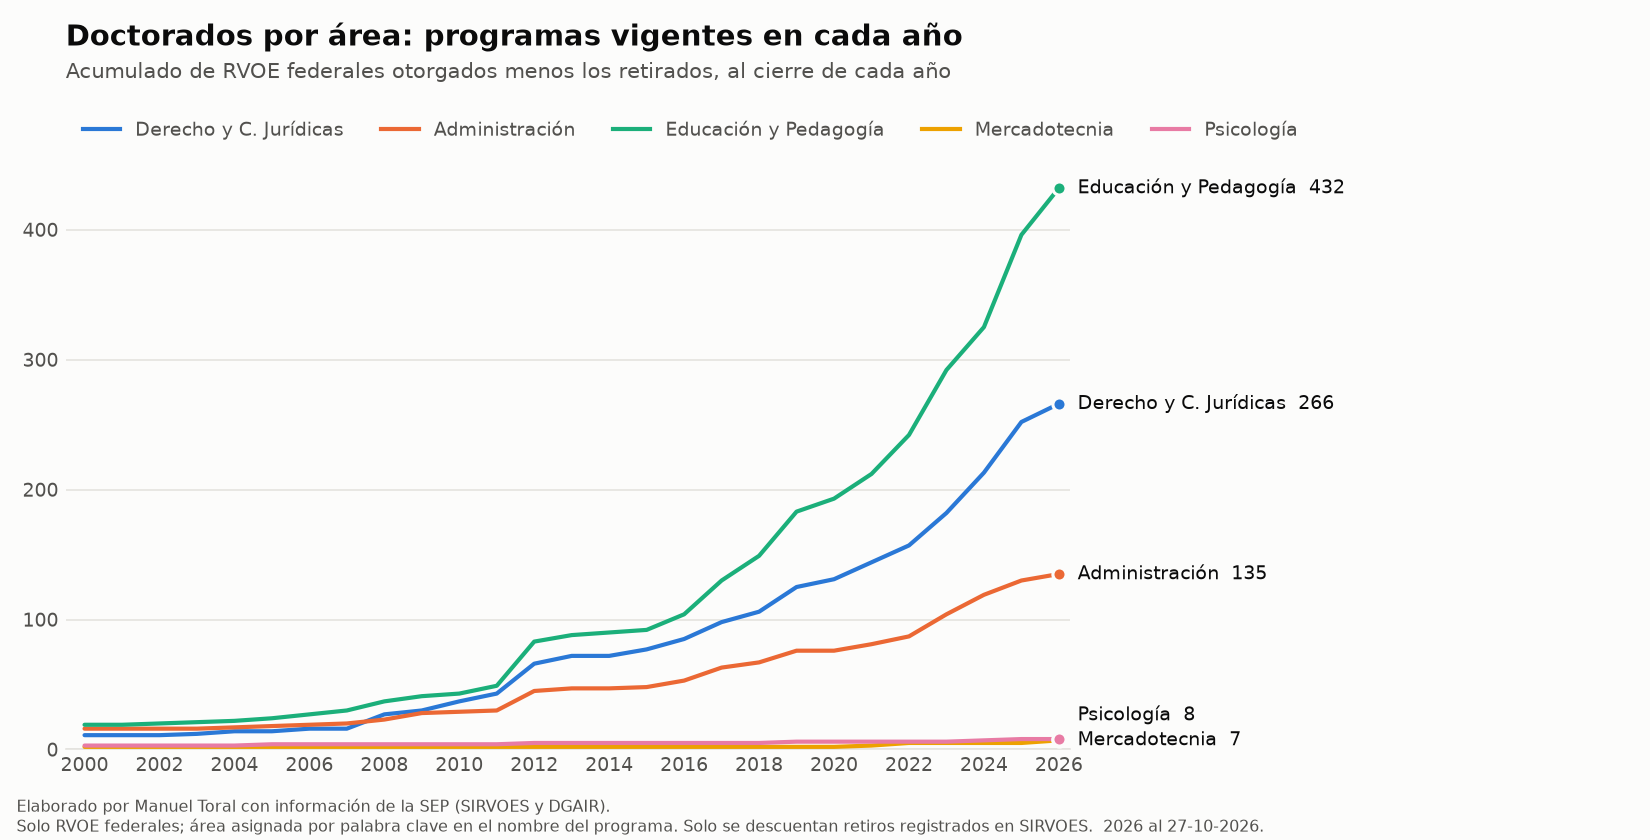
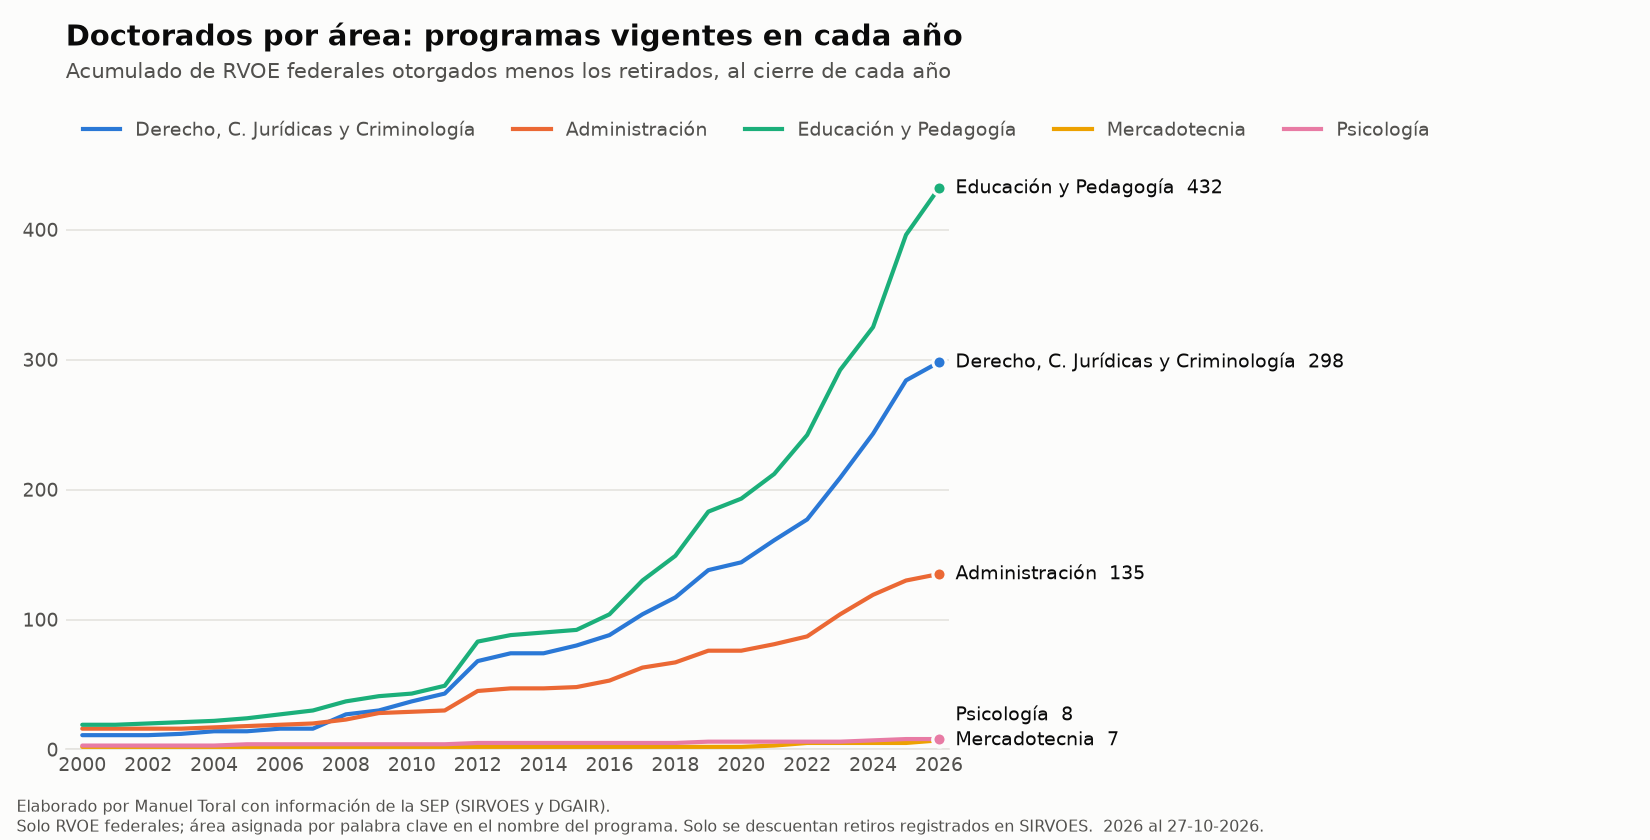
Doctorados jurídicos: suma Criminología y agrega gráfica por subárea
- La regla del área jurídica ahora incluye Criminología, Ciencias Penales,
  Juicios Orales, Ciencias Forenses, Seguridad Pública y Justicia
  (Ciencias Jurídicas ya estaba incluida)
- img/doctorados_derecho_subareas.png: penal, constitucional, procesal/civil,
  fiscal/laboral, general y otras
- clasificar(): clasificador por regex reutilizable

diff --git a/graficas.py b/graficas.py
@@ -26,28 +26,46 @@ def nombre_limpio(programa):
 def licenciatura_derecho(u):
     return u[(u["nivel"] == "LICENCIATURA") & (nombre_limpio(u["programa"]) == "DERECHO")]
 
-def vigentes_por_anio(df, cat):
+def vigentes_por_anio(df, cat, colores=CARRERAS):
     """Programas vigentes al cierre de cada año = otorgados hasta ese año - retirados hasta ese año.
-    `cat`: Serie alineada con df con la categoría (clave de CARRERAS) de cada programa."""
+    `cat`: Serie alineada con df con la categoría (clave de `colores`) de cada programa."""
     ao = pd.to_datetime(df["fecha_otorgamiento"], errors="coerce").dt.year
     ar = pd.to_datetime(df["fecha_retiro"], errors="coerce").dt.year
     return pd.DataFrame({c: [((cat == c) & (ao <= y) & ~(ar <= y)).sum() for y in range(DESDE, HASTA + 1)]
-                         for c in CARRERAS}, index=range(DESDE, HASTA + 1))
+                         for c in colores}, index=range(DESDE, HASTA + 1))
+
+def clasificar(programa, reglas, resto=None):
+    """Categoría por regex sobre el nombre limpio; gana la primera regla que coincide."""
+    p = nombre_limpio(programa).str.replace(r"^(EN )+", "", regex=True)
+    cat = pd.Series(resto, index=p.index, dtype=object)
+    for clave, rx in reversed(reglas):  # al revés para que la primera regla sobrescriba
+        cat[p.str.contains(rx, na=False)] = clave
+    return cat
 
 # Doctorados: los nombres varían ("DERECHO PENAL", "CIENCIAS DE LA EDUCACION"), se agrupan por palabra
-# clave; gana la primera regla ("INNOVACION Y ADMINISTRACION EDUCATIVA" -> educación).
-AREAS_DOC = [("DERECHO", r"DERECHO|JURIDIC"), ("PEDAGOGIA", r"EDUCACI|PEDAGOG|EDUCATIV"),
+# clave ("INNOVACION Y ADMINISTRACION EDUCATIVA" -> educación).
+JURIDICO = r"DERECHO|JURIDIC|CRIMIN|PENAL|JUICIO|FORENS|SEGURIDAD PUBLICA|JUSTICIA"
+AREAS_DOC = [("DERECHO", JURIDICO), ("PEDAGOGIA", r"EDUCACI|PEDAGOG|EDUCATIV"),
              ("ADMINISTRACION DE EMPRESAS", r"ADMINISTRACI"), ("MERCADOTECNIA", r"MERCADOTECNIA|MARKETING"),
              ("PSICOLOGIA", r"PSICOLOG")]
-NOMBRES_DOC = {"DERECHO": "Derecho y C. Jurídicas", "PEDAGOGIA": "Educación y Pedagogía",
+NOMBRES_DOC = {"DERECHO": "Derecho, C. Jurídicas y Criminología", "PEDAGOGIA": "Educación y Pedagogía",
                "ADMINISTRACION DE EMPRESAS": "Administración", "MERCADOTECNIA": "Mercadotecnia", "PSICOLOGIA": "Psicología"}
 
 def area_doctorado(programa):
-    p = nombre_limpio(programa)
-    cat = pd.Series(None, index=p.index, dtype=object)
-    for clave, rx in reversed(AREAS_DOC):  # al revés para que la primera regla sobrescriba
-        cat[p.str.contains(rx, na=False)] = clave
-    return cat
+    return clasificar(programa, AREAS_DOC)
+
+# Subáreas de los doctorados jurídicos. El orden importa: "DERECHO PROCESAL PENAL" -> penal,
+# "DERECHO PROCESAL CONSTITUCIONAL" -> constitucional, "DERECHO CIVIL CON JUICIO ORAL" -> procesal/civil.
+SUBAREAS_DER = [
+    ("Penal y criminología", r"PENAL|CRIMIN|FORENS|SEGURIDAD PUBLICA"),
+    ("Constitucional y derechos humanos", r"CONSTITU|HUMANOS|AMPARO|PUBLICO|ANTICORRUP"),
+    ("Procesal, civil y juicios orales", r"PROCESAL|CIVIL|FAMILIAR|JUICIO|\bORAL|LITIG"),  # \b: "LABORAL" no es oral
+    ("Fiscal, laboral y empresarial", r"FISCAL|TRIBUT|LABORAL|TRABAJO|CORPORAT|EMPRESA|COMERCI|ADUAN|MARITIM"),
+    ("Derecho / Ciencias jurídicas (general)", r"^(DERECHO|CIENCIAS? JURIDICAS?|DERECHO Y CIENCIAS JURIDICAS|INVESTIGACION JURIDICA)$"),
+]
+OTRAS_DER = "Otras especialidades"
+COLORES_SUB = dict(zip([s for s, _ in SUBAREAS_DER] + [OTRAS_DER],
+                       ["#2a78d6", "#eb6834", "#1baf7a", "#eda100", "#e87ba4", "#008300"]))
 
 def separar(valores, minimo):
     """Empuja hacia arriba las etiquetas finales que quedarían encimadas."""
@@ -58,23 +76,23 @@ def separar(valores, minimo):
         prev = pos[k]
     return pos
 
-def graficar_lineas(t, out, ultima_fecha, nombres=NOMBRES,
+def graficar_lineas(t, out, ultima_fecha, nombres=NOMBRES, colores=CARRERAS,
                     titulo="Licenciaturas con más RVOE: programas vigentes en cada año",
-                    nota="nombre exacto del programa (sin variantes)"):
+                    nota="nombre exacto del programa (sin variantes)", ncol=5):
     fig, ax = plt.subplots(figsize=(11, 5.6), dpi=150, facecolor=SURFACE)
     ax.set_facecolor(SURFACE)
-    for c, color in CARRERAS.items():
+    for c, color in colores.items():
         ax.plot(t.index, t[c], color=color, linewidth=2, solid_capstyle="round", solid_joinstyle="round", zorder=3)
         ax.scatter([HASTA], [t[c].iloc[-1]], s=40, color=color, edgecolor=SURFACE, linewidth=1.5, zorder=4)
-    pos = separar({c: t[c].iloc[-1] for c in CARRERAS}, minimo=t.values.max() * 0.045)
+    pos = separar({c: t[c].iloc[-1] for c in colores}, minimo=t.values.max() * 0.045)
     for c, y in pos.items():
         ax.annotate(f"{nombres[c]}  {t[c].iloc[-1]:,}", (HASTA, t[c].iloc[-1]), xytext=(HASTA + 0.5, y),
                     textcoords="data", va="center", fontsize=9, color=INK, annotation_clip=False)
     ax.set_title(titulo, loc="left", fontsize=14, color=INK, pad=28, weight="bold")
     ax.text(0, 1.04, "Acumulado de RVOE federales otorgados menos los retirados, al cierre de cada año",
             transform=ax.transAxes, fontsize=10, color=INK2)
-    ax.legend([plt.Line2D([], [], color=col, linewidth=2) for col in CARRERAS.values()], [nombres[c] for c in CARRERAS],
-              loc="upper left", frameon=False, fontsize=9, labelcolor=INK2, ncol=5, bbox_to_anchor=(0, 1.0))
+    ax.legend([plt.Line2D([], [], color=col, linewidth=2) for col in colores.values()], [nombres[c] for c in colores],
+              loc="upper left", frameon=False, fontsize=9, labelcolor=INK2, ncol=ncol, bbox_to_anchor=(0, 1.0))
     ax.set_xticks(range(DESDE, HASTA + 1, 2))
     ax.tick_params(colors=INK2, labelsize=9, length=0)
     ax.yaxis.set_major_formatter(matplotlib.ticker.StrMethodFormatter("{x:,.0f}"))
@@ -83,7 +101,7 @@ def graficar_lineas(t, out, ultima_fecha, nombres=NOMBRES,
         ax.spines[s].set_visible(False)
     ax.spines["bottom"].set_color(GRID)
     ax.set_xlim(DESDE - 0.5, HASTA + 0.3)
-    ax.set_ylim(0, t.values.max() * 1.15)
+    ax.set_ylim(0, t.values.max() * (1.15 if ncol >= len(colores) else 1.25))  # leyenda de 2 renglones: más aire
     fig.text(0.01, 0.01, f"{CREDITO}.\nSolo RVOE federales; {nota}. "
              f"Solo se descuentan retiros registrados en SIRVOES.  {HASTA} al {ultima_fecha}.", fontsize=7.5, color=INK2)
     fig.tight_layout(rect=(0, 0.05, 0.83, 1))
@@ -143,11 +161,30 @@ if __name__ == "__main__":
 
     doc = u[u["nivel"] == "DOCTORADO"]
     area = area_doctorado(doc["programa"])
-    assert area_doctorado(pd.Series(["INNOVACION Y ADMINISTRACION EDUCATIVA", "DERECHO PENAL (RETIRADO)", "FILOSOFIA"])) \
-        .fillna("-").tolist() == ["PEDAGOGIA", "DERECHO", "-"]
+    assert area_doctorado(pd.Series(["INNOVACION Y ADMINISTRACION EDUCATIVA", "DERECHO PENAL (RETIRADO)", "FILOSOFIA",
+                                     "CRIMINOLOGIA", "CIENCIAS JURIDICAS"])).fillna("-").tolist() \
+        == ["PEDAGOGIA", "DERECHO", "-", "DERECHO", "DERECHO"]
     vd = vigentes_por_anio(doc, area)
     graficar_lineas(vd, Path("img/doctorados_acumulados.png"), ultima, nombres=NOMBRES_DOC,
                     titulo="Doctorados por área: programas vigentes en cada año",
                     nota="área asignada por palabra clave en el nombre del programa")
     print(vd.rename(columns=NOMBRES_DOC).to_markdown())
     print("doctorados vigentes por área hoy:", area[doc["estatus"] == "VIGENTE"].value_counts(dropna=False).to_dict())
+
+    djur = doc[area == "DERECHO"]
+    sub = clasificar(djur["programa"], SUBAREAS_DER, resto=OTRAS_DER)
+    assert clasificar(pd.Series(["DERECHO PROCESAL PENAL", "DERECHO PROCESAL CONSTITUCIONAL", "DERECHO CIVIL CON JUICIO ORAL",
+                                 "DERECHO", "EN CIENCIAS JURIDICAS", "FILOSOFIA DEL DERECHO", "DERECHO LABORAL"]),
+                      SUBAREAS_DER, OTRAS_DER).tolist() \
+        == ["Penal y criminología", "Constitucional y derechos humanos", "Procesal, civil y juicios orales",
+            "Derecho / Ciencias jurídicas (general)", "Derecho / Ciencias jurídicas (general)", OTRAS_DER,
+            "Fiscal, laboral y empresarial"]
+    vs = vigentes_por_anio(djur, sub, COLORES_SUB)
+    assert vs.iloc[-1].sum() == vd["DERECHO"].iloc[-1]  # las subáreas suman el total jurídico
+    graficar_lineas(vs, Path("img/doctorados_derecho_subareas.png"), ultima, nombres={c: c for c in COLORES_SUB},
+                    colores=COLORES_SUB, titulo="Doctorados en Derecho, Ciencias Jurídicas y Criminología, por subárea",
+                    nota="subárea asignada por palabra clave en el nombre del programa", ncol=3)
+    print(vs.to_markdown())
+    vig = djur["estatus"] == "VIGENTE"
+    for s in COLORES_SUB:
+        print(s, "->", nombre_limpio(djur.loc[vig & (sub == s), "programa"]).value_counts().head(6).to_dict())

diff --git a/README.md b/README.md
@@ -24,8 +24,9 @@ Base de datos abierta de los **Reconocimientos de Validez Oficial de Estudios (R
 8. [Caso: Licenciatura en Derecho](#caso-licenciatura-en-derecho)
 9. [Licenciaturas más frecuentes: vigentes por año](#licenciaturas-más-frecuentes-vigentes-por-año)
 10. [Doctorados por área: vigentes por año](#doctorados-por-área-vigentes-por-año)
-11. [Limitaciones y advertencias](#limitaciones-y-advertencias)
-12. [Reproducir](#reproducir)
+11. [Doctorados jurídicos por subárea](#doctorados-jurídicos-por-subárea)
+12. [Limitaciones y advertencias](#limitaciones-y-advertencias)
+13. [Reproducir](#reproducir)
 
 ---
 
@@ -40,6 +41,7 @@ Base de datos abierta de los **Reconocimientos de Validez Oficial de Estudios (R
 | `img/derecho_por_anio.png` | Gráfica: Derecho, RVOE otorgados por año y modalidad | — |
 | `img/vigentes_acumulados.png` | Gráfica: programas vigentes en cada año, top 5 licenciaturas | — |
 | `img/doctorados_acumulados.png` | Gráfica: doctorados vigentes en cada año, por área | — |
+| `img/doctorados_derecho_subareas.png` | Gráfica: doctorados jurídicos vigentes en cada año, por subárea | — |
 | `parse_dgair.py` | Extrae las tablas de los PDFs (pdfplumber) | |
 | `scrape_sirvoes.py` | Descarga SIRVOES desde su API JSON | |
 | `cruce.py` | Cruza ambas fuentes y genera la tabla unificada | |
@@ -335,22 +337,22 @@ Es el mismo cálculo que la gráfica anterior (otorgados menos retirados al cier
 
 | Área | Palabras clave | Ejemplos |
 |---|---|---|
-| Derecho y C. Jurídicas | `DERECHO`, `JURIDIC` | Derecho, Derecho Penal, Derechos Humanos, Ciencias Jurídicas |
+| Derecho, C. Jurídicas y Criminología | `DERECHO`, `JURIDIC`, `CRIMIN`, `PENAL`, `JUICIO`, `FORENS`, `SEGURIDAD PUBLICA`, `JUSTICIA` | Derecho, Derecho Penal, Ciencias Jurídicas, Criminología, Política Criminal, Ciencias Penales, Juicios Orales, Ciencias Forenses, Seguridad Pública |
 | Educación y Pedagogía | `EDUCACI`, `PEDAGOG`, `EDUCATIV` | Educación, Ciencias de la Educación, Innovación Educativa, Innovación y Administración Educativa |
 | Administración | `ADMINISTRACI` | Administración, Administración Pública, Ciencias de la Administración |
 | Mercadotecnia | `MERCADOTECNIA`, `MARKETING` | Mercadotecnia Estratégica, Dirección y Mercadotecnia |
 | Psicología | `PSICOLOG` | Psicología, Investigación Psicológica |
 
-- **Educación domina los doctorados:** 434 programas vigentes, y junto con Derecho (268) suman más de la mitad de los 1,328 doctorados vigentes.
-- **Crecieron más rápido que las licenciaturas.** Educación pasó de 19 programas en 2000 a 432 (unas 23 veces) y Derecho de 11 a 266 (unas 24 veces). Las licenciaturas más frecuentes crecieron entre 4 y 14 veces en el mismo periodo.
-- **Buena parte del crecimiento es reciente.** De 2021 a 2026, Educación se duplicó (de 212 a 432 programas) y Derecho casi (de 144 a 266).
-- **Administración iba por delante de Derecho hasta 2007** y ahora tiene la mitad.
+- **Educación domina los doctorados:** 434 programas vigentes, y junto con Derecho, Ciencias Jurídicas y Criminología (300) suman más de la mitad de los 1,328 doctorados vigentes.
+- **Crecieron más rápido que las licenciaturas.** Educación pasó de 19 programas en 2000 a 432 (unas 23 veces) y el área jurídica de 11 a 298 (unas 27 veces). Las licenciaturas más frecuentes crecieron entre 4 y 14 veces en el mismo periodo.
+- **Buena parte del crecimiento es reciente.** De 2021 a 2026, Educación se duplicó (de 212 a 432 programas) y el área jurídica casi (de 161 a 298).
+- **Administración iba por delante del área jurídica hasta 2007**; hoy tiene menos de la mitad.
 - **En Mercadotecnia y Psicología casi no hay doctorados** (7 y 8 programas), aunque estén entre las licenciaturas más frecuentes.
 
 <details>
 <summary>Tabla de la gráfica: doctorados vigentes al cierre de cada año, por área</summary>
 
-| Año | Derecho y C. Jurídicas | Administración | Educación y Pedagogía | Mercadotecnia | Psicología |
+| Año | Derecho, C. Jurídicas y Criminología | Administración | Educación y Pedagogía | Mercadotecnia | Psicología |
 |--:|--:|--:|--:|--:|--:|
 | 2000 | 11 | 16 | 19 | 2 | 3 |
 | 2001 | 11 | 16 | 19 | 2 | 3 |
@@ -364,21 +366,21 @@ Es el mismo cálculo que la gráfica anterior (otorgados menos retirados al cier
 | 2009 | 30 | 28 | 41 | 2 | 4 |
 | 2010 | 37 | 29 | 43 | 2 | 4 |
 | 2011 | 43 | 30 | 49 | 2 | 4 |
-| 2012 | 66 | 45 | 83 | 2 | 5 |
-| 2013 | 72 | 47 | 88 | 2 | 5 |
-| 2014 | 72 | 47 | 90 | 2 | 5 |
-| 2015 | 77 | 48 | 92 | 2 | 5 |
-| 2016 | 85 | 53 | 104 | 2 | 5 |
-| 2017 | 98 | 63 | 130 | 2 | 5 |
-| 2018 | 106 | 67 | 149 | 2 | 5 |
-| 2019 | 125 | 76 | 183 | 2 | 6 |
-| 2020 | 131 | 76 | 193 | 2 | 6 |
-| 2021 | 144 | 81 | 212 | 3 | 6 |
-| 2022 | 157 | 87 | 242 | 5 | 6 |
-| 2023 | 182 | 104 | 292 | 5 | 6 |
-| 2024 | 213 | 119 | 325 | 5 | 7 |
-| 2025 | 252 | 130 | 396 | 5 | 8 |
-| 2026* | 266 | 135 | 432 | 7 | 8 |
+| 2012 | 68 | 45 | 83 | 2 | 5 |
+| 2013 | 74 | 47 | 88 | 2 | 5 |
+| 2014 | 74 | 47 | 90 | 2 | 5 |
+| 2015 | 80 | 48 | 92 | 2 | 5 |
+| 2016 | 88 | 53 | 104 | 2 | 5 |
+| 2017 | 104 | 63 | 130 | 2 | 5 |
+| 2018 | 117 | 67 | 149 | 2 | 5 |
+| 2019 | 138 | 76 | 183 | 2 | 6 |
+| 2020 | 144 | 76 | 193 | 2 | 6 |
+| 2021 | 161 | 81 | 212 | 3 | 6 |
+| 2022 | 177 | 87 | 242 | 5 | 6 |
+| 2023 | 209 | 104 | 292 | 5 | 6 |
+| 2024 | 243 | 119 | 325 | 5 | 7 |
+| 2025 | 284 | 130 | 396 | 5 | 8 |
+| 2026* | 298 | 135 | 432 | 7 | 8 |
 
 \* 2026 parcial, con registros hasta el 27-10-2026.
 </details>
@@ -387,6 +389,69 @@ Es el mismo cálculo que la gráfica anterior (otorgados menos retirados al cier
 - Aplican las mismas advertencias que en la gráfica de licenciaturas.
 - La clasificación por palabra clave es aproximada: un doctorado en "Gestión de Instituciones" que no use ninguna de las palabras clave no cuenta, aunque sea del área educativa.
 - Las áreas de doctorado no equivalen a las carreras de licenciatura: aquí "Administración" incluye la pública y "Educación" incluye todo lo educativo, no solo Pedagogía.
+- Quedan fuera del área jurídica los doctorados fiscales que no dicen "Derecho" (`CIENCIAS DE LO FISCAL`, `ESTUDIOS FISCALES`), que son más contables, y los de ciberseguridad.
+
+---
+
+## Doctorados jurídicos por subárea
+
+![Doctorados en Derecho, Ciencias Jurídicas y Criminología, por subárea](img/doctorados_derecho_subareas.png)
+
+Desglose de los 300 doctorados vigentes del área jurídica (Derecho, Ciencias Jurídicas y Criminología) de la gráfica anterior. Usa el mismo cálculo: vigentes al cierre de cada año. La subárea se asigna por palabra clave y gana la primera regla que coincide, así que `DERECHO PROCESAL PENAL` cuenta como Penal y `DERECHO PROCESAL CONSTITUCIONAL` como Constitucional.
+
+| Subárea | Palabras clave | Programas más frecuentes (vigentes) | Vigentes 2026 |
+|---|---|---|--:|
+| Penal y criminología | `PENAL`, `CRIMIN`, `FORENS`, `SEGURIDAD PUBLICA` | Derecho Penal (21), Seguridad Pública (5), Criminología (4), Ciencias Forenses (4), Derecho Procesal Penal (4), Política Criminal (3) | 60 |
+| Constitucional y derechos humanos | `CONSTITU`, `HUMANOS`, `AMPARO`, `PUBLICO`, `ANTICORRUP` | Derechos Humanos (5), Derecho Público (5), Derecho Constitucional (4), Constitucional y Amparo (3) | 33 |
+| Procesal, civil y juicios orales | `PROCESAL`, `CIVIL`, `FAMILIAR`, `JUICIO`, `ORAL`, `LITIG` | Derecho Civil (9), Derecho Procesal (6), Derecho y Procedimientos Orales (2), Civil con Juicio Oral (2) | 26 |
+| Fiscal, laboral y empresarial | `FISCAL`, `TRIBUT`, `LABORAL`, `TRABAJO`, `CORPORAT`, `EMPRESA`, `COMERCI`, `ADUAN`, `MARITIM` | Derecho Fiscal (4), Derecho Laboral (3), Aduanero y Comercio Exterior (2) | 14 |
+| Derecho / Ciencias jurídicas (general) | nombre exacto: `DERECHO`, `CIENCIAS JURIDICAS`, `DERECHO Y CIENCIAS JURIDICAS`, `INVESTIGACION JURIDICA` | Derecho (144), Ciencias Jurídicas (5), Derecho y Ciencias Jurídicas (3) | 153 |
+| Otras especialidades | lo que no entra en las anteriores | Filosofía del Derecho, Marco Jurídico de Gestión de Riesgos, Ciencias Jurídicas, Política y Gobierno, Derecho Sanitario | 12 |
+
+- **La mitad son doctorados genéricos "en Derecho"** (153 de 298). Las especialidades crecen, pero el título general sigue siendo el más común.
+- **Penal y criminología es la especialidad más grande** (60 programas, uno de cada cinco). No existía antes de 2008 y creció de forma sostenida desde entonces.
+- **Constitucional y derechos humanos es lo que más crece en los últimos años:** se triplicó de 2022 (11) a 2026 (33).
+- **Antes de 2008 casi no había doctorados jurídicos especializados:** en 2007, 12 de 16 programas eran genéricos.
+
+<details>
+<summary>Tabla de la gráfica: doctorados jurídicos vigentes al cierre de cada año, por subárea</summary>
+
+| Año | Penal y criminología | Constitucional y DD. HH. | Procesal, civil y juicios orales | Fiscal, laboral y empresarial | General | Otras |
+|--:|--:|--:|--:|--:|--:|--:|
+| 2000 | 0 | 0 | 0 | 1 | 8 | 2 |
+| 2001 | 0 | 0 | 0 | 1 | 8 | 2 |
+| 2002 | 0 | 0 | 0 | 1 | 8 | 2 |
+| 2003 | 0 | 0 | 0 | 1 | 9 | 2 |
+| 2004 | 0 | 0 | 0 | 2 | 10 | 2 |
+| 2005 | 0 | 0 | 0 | 2 | 10 | 2 |
+| 2006 | 0 | 0 | 0 | 2 | 12 | 2 |
+| 2007 | 0 | 0 | 0 | 2 | 12 | 2 |
+| 2008 | 2 | 1 | 0 | 3 | 19 | 2 |
+| 2009 | 3 | 2 | 0 | 4 | 19 | 2 |
+| 2010 | 5 | 3 | 3 | 4 | 20 | 2 |
+| 2011 | 5 | 3 | 3 | 4 | 25 | 3 |
+| 2012 | 10 | 5 | 6 | 4 | 40 | 3 |
+| 2013 | 13 | 5 | 6 | 4 | 43 | 3 |
+| 2014 | 13 | 5 | 6 | 4 | 43 | 3 |
+| 2015 | 14 | 6 | 7 | 4 | 46 | 3 |
+| 2016 | 16 | 6 | 7 | 5 | 51 | 3 |
+| 2017 | 19 | 7 | 12 | 8 | 55 | 3 |
+| 2018 | 24 | 9 | 12 | 8 | 61 | 3 |
+| 2019 | 30 | 11 | 13 | 9 | 72 | 3 |
+| 2020 | 31 | 11 | 13 | 10 | 76 | 3 |
+| 2021 | 35 | 11 | 14 | 11 | 87 | 3 |
+| 2022 | 39 | 11 | 17 | 11 | 94 | 5 |
+| 2023 | 49 | 16 | 17 | 11 | 111 | 5 |
+| 2024 | 55 | 25 | 22 | 13 | 121 | 7 |
+| 2025 | 60 | 29 | 25 | 13 | 147 | 10 |
+| 2026* | 60 | 33 | 26 | 14 | 153 | 12 |
+
+\* 2026 parcial, con registros hasta el 27-10-2026.
+</details>
+
+**Cómo leer la gráfica:**
+- Aplican las mismas advertencias que en las gráficas anteriores. Las subáreas suman el total del área jurídica (298 en 2026; 2 programas vigentes no tienen fecha).
+- Un programa con nombre mixto cae en la primera regla que coincide: por ejemplo, "Juicio Oral Penal y Derechos Humanos" cuenta como Penal.
 
 ---
 
